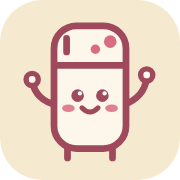
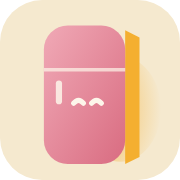
Replace the fridge buddy with the modern Glow assistant
Rose gradient fridge with its door ajar and gold light spilling out.
Used on Home, the name prompt and the app icon; it breathes and sways
instead of waving.

Claude-Session: https://claude.ai/code/session_01WJfPfSmd67gdst9Dw1of8c

diff --git a/index.html b/index.html
@@ -46,23 +46,17 @@
         <div class="date-badge" aria-hidden="true"><b id="badge-day"></b><span id="badge-month"></span></div>
       </div>
       <div class="card assistant-card">
-        <div class="mascot-wrap"><svg class="mascot big wave" viewBox="0 0 64 68" aria-hidden="true" focusable="false">
-  <g class="arm-l"><path d="M17 40C11 39 7.5 35 6.6 30.6" fill="none" stroke="#9f4a5c" stroke-width="3" stroke-linecap="round"/>
-    <circle cx="6.3" cy="28.8" r="2.7" fill="#fdf6ea" stroke="#9f4a5c" stroke-width="2.4"/></g>
-  <g class="arm-r"><path d="M47 40C53 38 56.6 33.6 57 28.6" fill="none" stroke="#9f4a5c" stroke-width="3" stroke-linecap="round"/>
-    <circle cx="57.2" cy="26.8" r="2.7" fill="#fdf6ea" stroke="#9f4a5c" stroke-width="2.4"/></g>
-  <path d="M22 59.5v4.2M42 59.5v4.2" stroke="#9f4a5c" stroke-width="3" stroke-linecap="round"/>
-  <rect x="16" y="5" width="32" height="54.5" rx="10" fill="#fdf6ea" stroke="#9f4a5c" stroke-width="3"/>
-  <path d="M16 22.5H48" stroke="#9f4a5c" stroke-width="3"/>
-  <path d="M21.6 10.6v6" stroke="#9f4a5c" stroke-width="3" stroke-linecap="round"/>
-  <circle class="magnet m1" cx="41" cy="12" r="2.8" fill="#d96c81"/>
-  <circle class="magnet m2" cx="34.4" cy="15.4" r="2.1" fill="#d96c81"/>
-  <g class="eyes"><circle cx="26.5" cy="36" r="2.8" fill="#9f4a5c"/><circle cx="37.5" cy="36" r="2.8" fill="#9f4a5c"/>
-    <circle cx="27.5" cy="35" r=".95" fill="#fff"/><circle cx="38.5" cy="35" r=".95" fill="#fff"/></g>
-  <ellipse cx="22.4" cy="41.6" rx="2.8" ry="1.7" fill="#d96c81" opacity=".85"/>
-  <ellipse cx="41.6" cy="41.6" rx="2.8" ry="1.7" fill="#d96c81" opacity=".85"/>
-  <path d="M28.4 41.4Q32 45.2 35.6 41.4" stroke="#9f4a5c" stroke-width="2.2" fill="none" stroke-linecap="round"/>
-  
+        <div class="mascot-wrap"><svg class="mascot big" viewBox="0 0 64 68" aria-hidden="true" focusable="false">
+  <defs>
+    <linearGradient id="home-body" x1="0" y1="0" x2="1" y2="1"><stop offset="0" stop-color="#f0a9b6"/><stop offset="1" stop-color="#d96c81"/></linearGradient>
+    <radialGradient id="home-glow" cx=".1" cy=".5" r=".9"><stop offset="0" stop-color="#f4af30" stop-opacity=".9"/><stop offset="1" stop-color="#f4af30" stop-opacity="0"/></radialGradient>
+  </defs>
+  <ellipse class="glow" cx="44" cy="40" rx="17" ry="22" fill="url(#home-glow)"/>
+  <path class="door" d="M46 7l6 3v50l-6 3z" fill="#f4af30"/>
+  <rect x="12" y="5" width="34" height="58" rx="10" fill="url(#home-body)"/>
+  <path d="M12 23.5H46" stroke="#fdf6ea" stroke-opacity=".7" stroke-width="1.5"/>
+  <rect x="17" y="28" width="2.6" height="10" rx="1.3" fill="#fdf6ea" opacity=".85"/>
+  <path class="eyes" d="M24.5 37.5q2-2.4 4 0M32 37.5q2-2.4 4 0" fill="none" stroke="#fdf6ea" stroke-width="2.2" stroke-linecap="round"/>
 </svg></div>
         <p id="hello-sub" role="status" aria-live="polite"></p>
       </div>
@@ -271,23 +265,17 @@
   <dialog id="rack-dialog" class="rack-dialog"><div id="rack-detail"></div></dialog>
   <dialog id="name-dialog" class="name-dialog">
     <form id="name-form" autocomplete="off">
-      <svg class="mascot big wave" viewBox="0 0 64 68" aria-hidden="true" focusable="false">
-  <g class="arm-l"><path d="M17 40C11 39 7.5 35 6.6 30.6" fill="none" stroke="#9f4a5c" stroke-width="3" stroke-linecap="round"/>
-    <circle cx="6.3" cy="28.8" r="2.7" fill="#fdf6ea" stroke="#9f4a5c" stroke-width="2.4"/></g>
-  <g class="arm-r"><path d="M47 40C53 38 56.6 33.6 57 28.6" fill="none" stroke="#9f4a5c" stroke-width="3" stroke-linecap="round"/>
-    <circle cx="57.2" cy="26.8" r="2.7" fill="#fdf6ea" stroke="#9f4a5c" stroke-width="2.4"/></g>
-  <path d="M22 59.5v4.2M42 59.5v4.2" stroke="#9f4a5c" stroke-width="3" stroke-linecap="round"/>
-  <rect x="16" y="5" width="32" height="54.5" rx="10" fill="#fdf6ea" stroke="#9f4a5c" stroke-width="3"/>
-  <path d="M16 22.5H48" stroke="#9f4a5c" stroke-width="3"/>
-  <path d="M21.6 10.6v6" stroke="#9f4a5c" stroke-width="3" stroke-linecap="round"/>
-  <circle class="magnet m1" cx="41" cy="12" r="2.8" fill="#d96c81"/>
-  <circle class="magnet m2" cx="34.4" cy="15.4" r="2.1" fill="#d96c81"/>
-  <g class="eyes"><circle cx="26.5" cy="36" r="2.8" fill="#9f4a5c"/><circle cx="37.5" cy="36" r="2.8" fill="#9f4a5c"/>
-    <circle cx="27.5" cy="35" r=".95" fill="#fff"/><circle cx="38.5" cy="35" r=".95" fill="#fff"/></g>
-  <ellipse cx="22.4" cy="41.6" rx="2.8" ry="1.7" fill="#d96c81" opacity=".85"/>
-  <ellipse cx="41.6" cy="41.6" rx="2.8" ry="1.7" fill="#d96c81" opacity=".85"/>
-  <path d="M28.4 41.4Q32 45.2 35.6 41.4" stroke="#9f4a5c" stroke-width="2.2" fill="none" stroke-linecap="round"/>
-  
+      <svg class="mascot big" viewBox="0 0 64 68" aria-hidden="true" focusable="false">
+  <defs>
+    <linearGradient id="ask-body" x1="0" y1="0" x2="1" y2="1"><stop offset="0" stop-color="#f0a9b6"/><stop offset="1" stop-color="#d96c81"/></linearGradient>
+    <radialGradient id="ask-glow" cx=".1" cy=".5" r=".9"><stop offset="0" stop-color="#f4af30" stop-opacity=".9"/><stop offset="1" stop-color="#f4af30" stop-opacity="0"/></radialGradient>
+  </defs>
+  <ellipse class="glow" cx="44" cy="40" rx="17" ry="22" fill="url(#ask-glow)"/>
+  <path class="door" d="M46 7l6 3v50l-6 3z" fill="#f4af30"/>
+  <rect x="12" y="5" width="34" height="58" rx="10" fill="url(#ask-body)"/>
+  <path d="M12 23.5H46" stroke="#fdf6ea" stroke-opacity=".7" stroke-width="1.5"/>
+  <rect x="17" y="28" width="2.6" height="10" rx="1.3" fill="#fdf6ea" opacity=".85"/>
+  <path class="eyes" d="M24.5 37.5q2-2.4 4 0M32 37.5q2-2.4 4 0" fill="none" stroke="#fdf6ea" stroke-width="2.2" stroke-linecap="round"/>
 </svg>
       <h2>Hi! I'm your fridge.</h2>
       <p class="muted">What should I call you?</p>

diff --git a/js/mascot.js b/js/mascot.js
@@ -1,24 +1,20 @@
-// The Inside my Kitchen assistant: a little fridge with a face that waves and blinks.
-// Used in the header, on the Home page, in the opening splash and when it asks your name.
+// The Inside my Kitchen assistant: a soft rose fridge with its door just open and a warm
+// gold light spilling out. Used on the Home page and when it asks your name.
+// Each copy gets its own gradient ids so several can sit on one page.
 
-export function mascotSvg(cls = "mascot", { sparkle = false } = {}) {
-  const ink = "#9f4a5c";
+let n = 0;
+
+export function mascotSvg(cls = "mascot", { id = `m${++n}` } = {}) {
   return `<svg class="${cls}" viewBox="0 0 64 68" aria-hidden="true" focusable="false">
-  <g class="arm-l"><path d="M17 40C11 39 7.5 35 6.6 30.6" fill="none" stroke="${ink}" stroke-width="3" stroke-linecap="round"/>
-    <circle cx="6.3" cy="28.8" r="2.7" fill="#fdf6ea" stroke="${ink}" stroke-width="2.4"/></g>
-  <g class="arm-r"><path d="M47 40C53 38 56.6 33.6 57 28.6" fill="none" stroke="${ink}" stroke-width="3" stroke-linecap="round"/>
-    <circle cx="57.2" cy="26.8" r="2.7" fill="#fdf6ea" stroke="${ink}" stroke-width="2.4"/></g>
-  <path d="M22 59.5v4.2M42 59.5v4.2" stroke="${ink}" stroke-width="3" stroke-linecap="round"/>
-  <rect x="16" y="5" width="32" height="54.5" rx="10" fill="#fdf6ea" stroke="${ink}" stroke-width="3"/>
-  <path d="M16 22.5H48" stroke="${ink}" stroke-width="3"/>
-  <path d="M21.6 10.6v6" stroke="${ink}" stroke-width="3" stroke-linecap="round"/>
-  <circle class="magnet m1" cx="41" cy="12" r="2.8" fill="#d96c81"/>
-  <circle class="magnet m2" cx="34.4" cy="15.4" r="2.1" fill="#d96c81"/>
-  <g class="eyes"><circle cx="26.5" cy="36" r="2.8" fill="${ink}"/><circle cx="37.5" cy="36" r="2.8" fill="${ink}"/>
-    <circle cx="27.5" cy="35" r=".95" fill="#fff"/><circle cx="38.5" cy="35" r=".95" fill="#fff"/></g>
-  <ellipse cx="22.4" cy="41.6" rx="2.8" ry="1.7" fill="#d96c81" opacity=".85"/>
-  <ellipse cx="41.6" cy="41.6" rx="2.8" ry="1.7" fill="#d96c81" opacity=".85"/>
-  <path d="M28.4 41.4Q32 45.2 35.6 41.4" stroke="${ink}" stroke-width="2.2" fill="none" stroke-linecap="round"/>
-  ${sparkle ? `<g class="sparkle" fill="none" stroke="#d96c81" stroke-width="2.4" stroke-linecap="round"><path d="M6 12l3 3M4 21h4M58 9l-3 3M60 18h-4"/></g>` : ""}
+  <defs>
+    <linearGradient id="${id}-body" x1="0" y1="0" x2="1" y2="1"><stop offset="0" stop-color="#f0a9b6"/><stop offset="1" stop-color="#d96c81"/></linearGradient>
+    <radialGradient id="${id}-glow" cx=".1" cy=".5" r=".9"><stop offset="0" stop-color="#f4af30" stop-opacity=".9"/><stop offset="1" stop-color="#f4af30" stop-opacity="0"/></radialGradient>
+  </defs>
+  <ellipse class="glow" cx="44" cy="40" rx="17" ry="22" fill="url(#${id}-glow)"/>
+  <path class="door" d="M46 7l6 3v50l-6 3z" fill="#f4af30"/>
+  <rect x="12" y="5" width="34" height="58" rx="10" fill="url(#${id}-body)"/>
+  <path d="M12 23.5H46" stroke="#fdf6ea" stroke-opacity=".7" stroke-width="1.5"/>
+  <rect x="17" y="28" width="2.6" height="10" rx="1.3" fill="#fdf6ea" opacity=".85"/>
+  <path class="eyes" d="M24.5 37.5q2-2.4 4 0M32 37.5q2-2.4 4 0" fill="none" stroke="#fdf6ea" stroke-width="2.2" stroke-linecap="round"/>
 </svg>`;
 }

diff --git a/css/styles.css b/css/styles.css
@@ -1037,3 +1037,12 @@ body { background: var(--bg); }
 .mk.breakfast { background: #f4af30; }
 .mk.lunch { background: #d96c81; }
 .mk.dinner { background: var(--accent-deep); }
+
+/* Glow assistant: the light breathes and the door sways a touch. No waving or blinking. */
+.mascot .eyes { animation: none; }
+.mascot .glow { transform-box: fill-box; transform-origin: left center; animation: glow-breathe 3.6s ease-in-out infinite; }
+.mascot .door { transform-box: fill-box; transform-origin: left center; animation: door-sway 3.6s ease-in-out infinite; }
+@keyframes glow-breathe { 0%, 100% { opacity: .75; transform: scale(.94); } 50% { opacity: 1; transform: scale(1.04); } }
+@keyframes door-sway { 0%, 100% { transform: scaleX(1); } 50% { transform: scaleX(1.25); } }
+.mascot.big { filter: drop-shadow(0 10px 14px rgb(159 74 92 / 18%)); }
+@media (prefers-reduced-motion: reduce) { .mascot .glow, .mascot .door { animation: none; } }

diff --git a/CLAUDE.md b/CLAUDE.md
@@ -67,6 +67,10 @@ current ones: `sample` (with `images: true`), `db` and `user`.
   Sorbet Light `#F0A9B6`, Rose Sorbet Dark `#9F4A5C` (all text). Cards are a lighter vanilla
   `#fbf5e8`. Dark mode: deep rose-brown `#3b1e26` (cards `#4a2631`) with Vanilla text. The owner
   dislikes navy and dull colours: never bring navy back. Food illustrations keep their own colours.
+- Assistant ("Glow", `js/mascot.js`): a rose gradient fridge with its door ajar and gold light
+  spilling out, closed happy eyes, no arms or legs. Modern, not childish. Motion is a slow glow
+  breathe and door sway (no waving). Also used for the app icon. Inline copies in `index.html`
+  are generated from `mascotSvg()`; each copy needs its own gradient id.
 - Older token names are kept and remapped: `--coral`/`--pink`/`--raspberry`/`--accent` Rose Sorbet,
   `--olive`/`--sun` Sunflower Gold, `--lilac` Rose Light, `--accent-deep` Rose Dark.
 - Meaning colours: breakfast Gold, lunch Rose Sorbet, dinner Rose Dark; fridge Rose Sorbet, freezer
